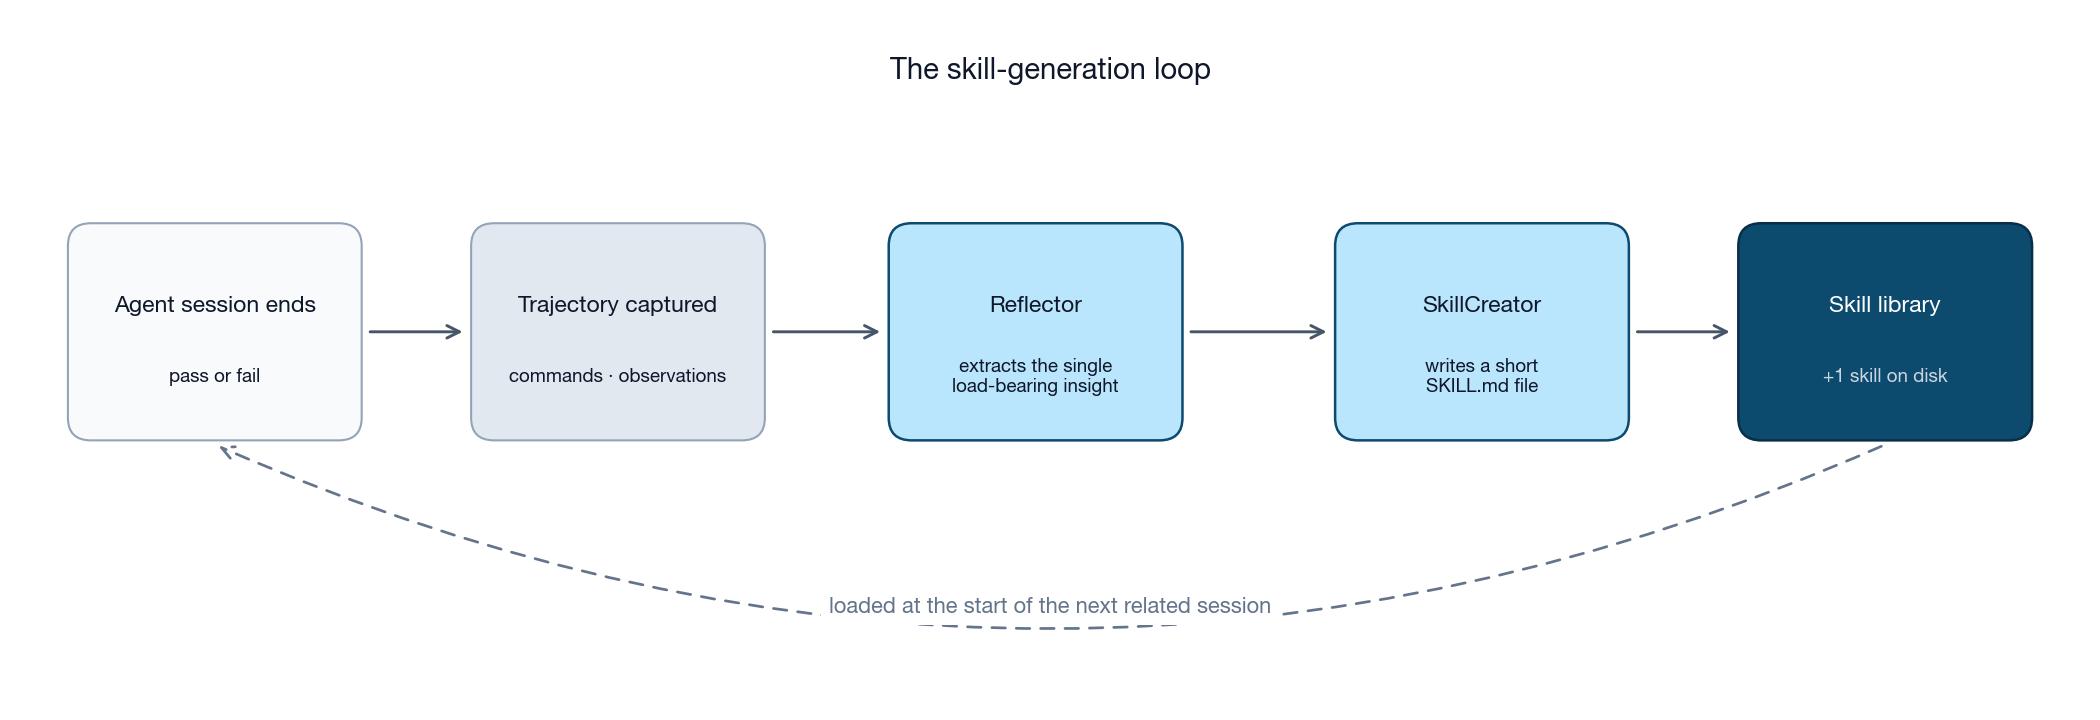
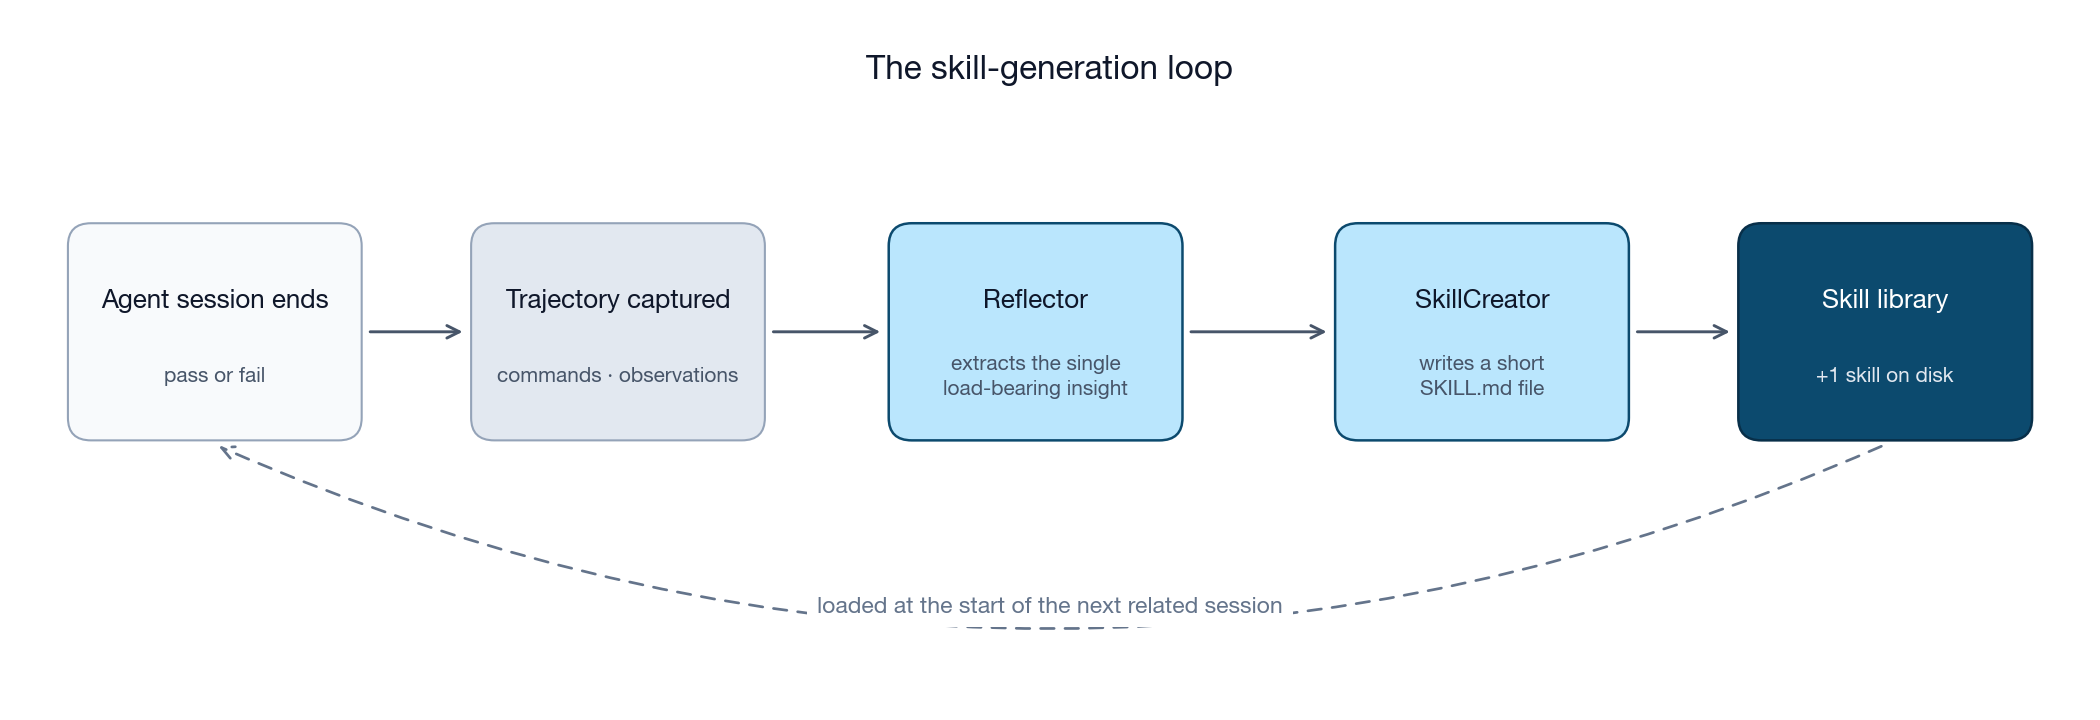
Loop diagram: refine typography — weight contrast over italic contrast, bigger title, better hierarchy
Several font improvements to bring the loop diagram closer to editorial
register:

  1. Node titles: 11pt bold -> 12.5pt semibold (weight 600). Semibold
     is the editorial weight; bold reads as aggressive at this size.
     Slight size bump for prominence.

  2. Node subtitles: 9pt italic -> 10pt regular. Italic was carrying
     hierarchy work that weight + size already do; italic body text at
     small sizes adds visual heaviness without paying for it. Roman
     (non-italic) reads more confident and clean. Color shifted from
     slate-900 to slate-600 for the lighter boxes, slate-200 (brighter)
     for the dark navy box.

  3. Title above diagram: 14pt bold -> 16pt semibold. Same reasoning --
     bigger feels more editorial, semibold replaces bold.

  4. Loop-back label: 10.5pt italic muted -> 11pt italic medium-weight
     (500). Italic kept here because it differentiates this label from
     the node subtitles (which are now roman); it earns its weight as
     a distinguishing element rather than a redundant styling layer.
     White background pad bumped slightly to give breathing room.

  5. Subtitle linespacing 1.45 -- the two-line subtitles ("extracts the
     single / load-bearing insight" and "writes a short / SKILL.md
     file") now have more vertical breathing room between lines.

  6. Added SF Pro Display to the font fallback stack (macOS native, will
     be picked up if available; degrades gracefully through Helvetica
[…]

diff --git a/scripts/plot_loop.py b/scripts/plot_loop.py
@@ -31,7 +31,9 @@ ASSETS.mkdir(exist_ok=True)
 
 plt.rcParams.update({
     "font.family": "sans-serif",
-    "font.sans-serif": ["Helvetica Neue", "Helvetica", "Inter", "Arial", "DejaVu Sans"],
+    "font.sans-serif": ["Helvetica Neue", "Helvetica", "Inter", "SF Pro Display", "Arial", "DejaVu Sans"],
+    "text.antialiased": True,
+    "pdf.fonttype": 42,  # TrueType embedding
 })
 
 # Palette (matches scripts/plot.py)
@@ -95,13 +97,16 @@ def main() -> int:
             edgecolor=stroke, facecolor=fill, zorder=2,
         )
         ax.add_patch(box)
-        # Title (bold, top of box)
-        ax.text(x, ROW_Y + 0.18, title, ha="center", va="center",
-                fontsize=11, color=text_color, fontweight="bold", zorder=3)
-        # Subtitle (italic, below title)
+        # Title — semibold (weight 600) for refined hierarchy vs heavy bold
+        ax.text(x, ROW_Y + 0.22, title, ha="center", va="center",
+                fontsize=12.5, color=text_color, fontweight=600, zorder=3)
+        # Subtitle — regular weight, not italic (italic adds visual heaviness
+        # that doesn't pay for itself at small sizes; weight + size contrast
+        # is enough hierarchy on its own). Brighter slate inside dark box.
+        sub_color = "#e2e8f0" if kind == "store" else "#475569"
         ax.text(x, ROW_Y - 0.32, sub, ha="center", va="center",
-                fontsize=9, color=text_color if kind != "store" else "#cbd5e1",
-                style="italic", zorder=3)
+                fontsize=10, color=sub_color, fontweight=400, zorder=3,
+                linespacing=1.45)
 
     # Forward arrows between adjacent nodes
     for i in range(len(NODES) - 1):
@@ -130,20 +135,23 @@ def main() -> int:
     ax.add_patch(loopback)
 
     # Loop-back label (centered between first and last node) — white background
-    # so it cuts cleanly through the dashed curve instead of getting struck through.
+    # cuts the dashed curve cleanly. Italic here works (it differentiates the
+    # label from the node-text subtitles, which are now roman).
     label_x = (x_start + x_end) / 2
     ax.text(
         label_x, 0.65,
         "loaded at the start of the next related session",
-        ha="center", va="center", fontsize=10.5, color=COLOR_TEXT_MUTED, style="italic",
-        bbox=dict(facecolor="white", edgecolor="none", pad=4),
+        ha="center", va="center", fontsize=11, color=COLOR_TEXT_MUTED,
+        style="italic", fontweight=500,
+        bbox=dict(facecolor="white", edgecolor="none", pad=5),
         zorder=5,
     )
 
-    # Optional caption / title above the diagram
+    # Title above the diagram — editorial size, semibold for refined look
     ax.text(
         7.0, 4.45, "The skill-generation loop",
-        ha="center", va="center", fontsize=14, color=COLOR_TEXT_DARK, fontweight="bold",
+        ha="center", va="center", fontsize=16, color=COLOR_TEXT_DARK,
+        fontweight=600,
     )
 
     plt.subplots_adjust(left=0.02, right=0.98, top=0.97, bottom=0.03)